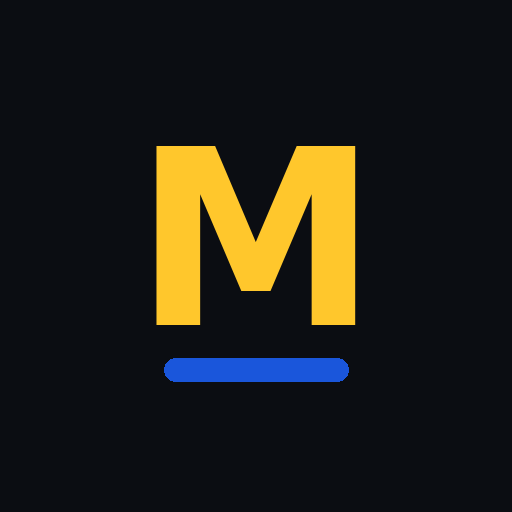
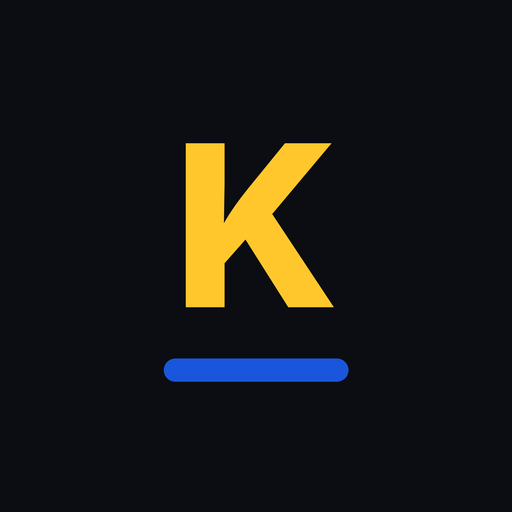
Add files via upload

Changed region(s): [[0.2812, 0.2812, 0.7188, 0.6562]]

diff --git a/index.html b/index.html
@@ -3,14 +3,14 @@
 <head>
     <meta charset="UTF-8">
     <meta name="viewport" content="width=device-width, initial-scale=1.0, maximum-scale=1.0, user-scalable=no, viewport-fit=cover, interactive-widget=resizes-visual">
-    <title>Matinyo POS</title>
+    <title>Keep POS</title>
 
     <!-- Install as an app (works once the files are hosted) -->
     <link rel="manifest" href="manifest.json">
     <meta name="mobile-web-app-capable" content="yes">
     <meta name="apple-mobile-web-app-capable" content="yes">
     <meta name="apple-mobile-web-app-status-bar-style" content="black-translucent">
-    <meta name="apple-mobile-web-app-title" content="Matinyo POS">
+    <meta name="apple-mobile-web-app-title" content="Keep POS">
     <meta name="theme-color" content="#0b0d12">
     <link rel="apple-touch-icon" href="icon-192.png">
     <link rel="icon" type="image/png" sizes="192x192" href="icon-192.png">
@@ -18,11 +18,11 @@
     <link href="https://fonts.googleapis.com/css2?family=Syne:wght@700;800&family=DM+Sans:wght@400;500;700;800&display=swap" rel="stylesheet">
     <style>
         :root {
-            --ink: #0b0d12;          /* Matinyo black */
+            --ink: #0b0d12;          /* Keep black */
             --ink2: #161b27;
-            --blue: #1a56db;         /* Matinyo blue */
+            --blue: #1a56db;         /* Keep blue */
             --blue-d: #1442b0;
-            --yellow: #ffc72c;       /* Matinyo yellow */
+            --yellow: #ffc72c;       /* Keep yellow */
             --light: #f2f4f8;
             --green: #16a34a;
             --pos: #00875a;
@@ -43,7 +43,7 @@
         .is-cashier .role-admin { display: none !important; }
 
         /* ── LOGIN ── */
-        #loginPage {
+        #loginPage, #setPinPage {
             position: fixed; inset: 0; z-index: 100; overflow-y: auto;
             background: radial-gradient(circle at 15% 0%, #16245a 0, var(--ink) 55%);
             display: flex; align-items: center; justify-content: center;
@@ -516,7 +516,7 @@
 <div id="pendingBadge">⏳ Waiting to sync</div>
 <div id="installBanner">
     <div style="font-size:1.8rem;">📲</div>
-    <div style="flex:1;"><strong>Install Matinyo POS</strong><span>Add to home screen — opens like an app</span></div>
+    <div style="flex:1;"><strong>Install Keep POS</strong><span>Add to home screen — opens like an app</span></div>
     <button class="install-btn" onclick="doInstall()">INSTALL</button>
     <button class="icon-btn" onclick="dismissInstall()">✕</button>
 </div>
@@ -545,7 +545,7 @@
 <!-- ══════════════ LOGIN ══════════════ -->
 <div id="loginPage">
     <div class="login-card">
-        <div class="login-logo">MATINYO<span>POS</span></div>
+        <div class="login-logo">KEEP<span>POS</span></div>
         <div class="login-bar"></div>
         <div class="login-sub">Authorized staff only</div>
 
@@ -569,6 +569,23 @@
     </div>
 </div>
 
+<!-- ══════════════ SET / RESET PIN (opened from the email link) ══════════════ -->
+<div id="setPinPage" style="display:none;z-index:110;">
+    <div class="login-card">
+        <div class="login-logo">KEEP<span>POS</span></div>
+        <div class="login-bar"></div>
+        <div style="font-size:1.05rem;font-weight:800;margin:6px 0 4px;">🔑 Set your PIN</div>
+        <div style="font-size:.82rem;color:var(--gray);margin-bottom:14px;line-height:1.5;" id="spWho">Checking your link…</div>
+        <div id="spFields" class="hidden"><div style="font-size:.72rem;color:var(--gray);margin-bottom:6px;">6 to 12 numbers</div>
+            <input type="password" id="spPin" class="login-field pass-input" placeholder="New PIN" inputmode="numeric" autocomplete="new-password">
+            <input type="password" id="spPin2" class="login-field pass-input" placeholder="PIN again" inputmode="numeric" autocomplete="new-password" onkeydown="if(event.key==='Enter') saveNewPin()">
+            <button class="primary-cta" id="spBtn" style="margin:4px 0 0;" onclick="saveNewPin()">SAVE PIN &amp; OPEN MY SHOP</button>
+        </div>
+        <div id="spError" style="font-size:.8rem;margin-top:10px;color:var(--red);"></div>
+        <button class="link-btn" onclick="leaveSetPin()">Go to sign in</button>
+    </div>
+</div>
+
 <!-- ══════════════ SUBSCRIPTION LOCK ══════════════ -->
 <div id="lockPage">
     <div class="login-card">
@@ -578,8 +595,8 @@
         <div style="font-size:.9rem;font-weight:700;margin:10px 0 4px;" id="lockTitle">Till locked</div>
         <div style="font-size:.8rem;color:var(--gray);" id="lockWhy"></div>
         <div class="pay-box" id="lockPay"></div>
-        <div style="font-size:.72rem;color:var(--gray);margin-bottom:14px;">✨ The till unlocks by itself as soon as Matinyo records your payment — no need to sign in again.</div>
-        <button class="primary-cta green" id="lockWa" onclick="lockWhatsApp()">📲 I've paid — tell Matinyo</button>
+        <div style="font-size:.72rem;color:var(--gray);margin-bottom:14px;">✨ The till unlocks by itself as soon as Keep records your payment — no need to sign in again.</div>
+        <button class="primary-cta green" id="lockWa" onclick="lockWhatsApp()">📲 I've paid — tell Keep</button>
         <button class="link-btn" onclick="logout('Signed out')">Sign out</button>
     </div>
 </div>
@@ -598,7 +615,7 @@
     <div class="tab-page role-admin" id="page-dashboard">
         <div class="header">
             <div class="header-top">
-                <div class="header-logo shop-name">MATINYO</div>
+                <div class="header-logo shop-name">KEEP</div>
                 <div class="header-meta">
                     <span class="who me-name"></span>
                     <button class="icon-btn" onclick="openTeam()" title="Team & settings">👥</button>
@@ -664,7 +681,7 @@
     <div class="tab-page" id="page-pos">
         <div class="pos-header">
             <div class="header-top">
-                <div class="pos-logo">POS · <span class="shop-name" style="color:#fff;">MATINYO</span></div>
+                <div class="pos-logo">POS · <span class="shop-name" style="color:#fff;">KEEP</span></div>
                 <div class="header-meta">
                     <span class="who me-name"></span>
                     <span class="hdr-date today-label"></span>
@@ -1243,7 +1260,7 @@ db.enablePersistence({ synchronizeTabs: true }).catch(e => console.warn('Offline
 const FV = firebase.firestore.FieldValue;
 const inc = n => FV.increment(n);
 // Plan usage list — the database checks it against the plan's limits.
-// Only written once Matinyo HQ has set it up for the shop.
+// Only written once Keep HQ has set it up for the shop.
 const usageRef = () => col('plan').doc('usage');
 function usageAdd(b, kind, id) { if (S.usage) b.update(usageRef(), { [`${kind}.${id}`]: true, updatedAt: now() }); }
 function usageDel(b, kind, id) { if (S.usage) b.update(usageRef(), { [`${kind}.${id}`]: FV.delete(), updatedAt: now() }); }
@@ -1500,16 +1517,50 @@ async function rejectLogin(msg) {
     loginError(msg);
 }
 
+// ── Set-PIN link from the email (Firebase sends ?mode=resetPassword&oobCode=…) ──
+S.resetCode = (() => { const q = new URLSearchParams(location.search); return q.get('mode') === 'resetPassword' ? q.get('oobCode') : null; })();
+if (new URLSearchParams(location.search).get('mode')) history.replaceState(null, '', location.pathname);
+async function openSetPin() {
+    $('loginPage').style.display = 'none'; $('setPinPage').style.display = 'flex';
+    try {
+        S.resetEmail = await auth.verifyPasswordResetCode(S.resetCode);
+        $('spWho').innerHTML = `Choose a PIN for <b>${esc(S.resetEmail)}</b>.<br>You will use it with this email or your phone number to open the till.`;
+        $('spFields').classList.remove('hidden'); setTimeout(() => $('spPin').focus(), 200);
+    } catch (e) {
+        $('spWho').innerHTML = '⚠ This link has expired or was already used.<br>On the sign-in page, type your email and tap <b>Forgot PIN?</b> to get a new one.';
+    }
+}
+async function saveNewPin() {
+    const pin = $('spPin').value.trim(); $('spError').textContent = '';
+    if (!/^\d{6,12}$/.test(pin)) return $('spError').textContent = 'The PIN must be 6 to 12 digits (numbers only).';
+    if (pin !== $('spPin2').value.trim()) return $('spError').textContent = 'The two PINs do not match.';
+    const btn = $('spBtn'); btn.disabled = true; btn.textContent = 'SAVING...';
+    try {
+        await auth.confirmPasswordReset(S.resetCode, pin);
+        S.resetCode = null; $('setPinPage').style.display = 'none';
+        if (auth.currentUser) await auth.signOut();
+        S.pendingLoginId = S.resetEmail;
+        loader(true, 'OPENING SHOP...');
+        await auth.signInWithEmailAndPassword(S.resetEmail, pin);
+        setTimeout(() => toast('✅ PIN saved — welcome!'), 800);
+    } catch (e) {
+        loader(false);
+        $('spError').textContent = (e.code || '').includes('expired') || (e.code || '').includes('invalid-action') ? 'This link has expired. Use Forgot PIN on the sign-in page.' : 'Could not save: ' + friendlyErr(e);
+    } finally { btn.disabled = false; btn.textContent = 'SAVE PIN & OPEN MY SHOP'; }
+}
+function leaveSetPin() { S.resetCode = null; $('setPinPage').style.display = 'none'; if (!auth.currentUser) showLogin(); else location.reload(); }
+
 auth.onAuthStateChanged(async user => {
     stopListeners();
+    if (S.resetCode) { loader(false); if ($('setPinPage').style.display !== 'flex') openSetPin(); return; }
     if (!user) { loader(false); showLogin(); return; }
     loader(true, 'OPENING SHOP...');
     try {
         const link = await db.collection('users').doc(user.uid).get();
-        if (!link.exists || !link.data().shop) return rejectLogin('This login is not linked to any shop. Contact Matinyo support.');
+        if (!link.exists || !link.data().shop) return rejectLogin('This login is not linked to any shop. Contact Keep support.');
         S.tenant = link.data().shop;
         const [tSnap, stSnap] = await Promise.all([tRef().get(), col('staff').doc(user.uid).get()]);
-        if (!tSnap.exists) return rejectLogin('Shop not found. Contact Matinyo support.');
+        if (!tSnap.exists) return rejectLogin('Shop not found. Contact Keep support.');
         if (!stSnap.exists) return rejectLogin('Your staff account is not set up. Ask the shop owner.');
         const st = stSnap.data();
         if (st.replacedBy) return rejectLogin('Your PIN was reset. Sign in with your new PIN.');
@@ -1517,6 +1568,7 @@ auth.onAuthStateChanged(async user => {
         S.tenantInfo = tSnap.data();
         S.me = { uid: user.uid, email: user.email, loginId: st.loginId || '', name: st.name || 'Staff', role: st.role === 'admin' ? 'admin' : 'cashier' };
         rememberUser(S.pendingLoginId || st.loginId || user.email, S.me.name, S.tenantInfo.name || S.tenant);
+        if (!isSellerEmail(user.email || '') && S.tenantInfo.name && user.displayName !== S.tenantInfo.name && user.updateProfile) user.updateProfile({ displayName: S.tenantInfo.name }).catch(() => {});
         S.pendingLoginId = null;
         S.platform = await db.collection('platform').doc('config').get().then(d => d.data() || {}).catch(() => ({}));
         if (subState(S.tenantInfo).locked) showLocked(); else enterApp();
@@ -1684,7 +1736,7 @@ function stopListeners() {
 
 function renderAll() { renderPOS(); renderInventory(); renderPosStrip(); if (isAdmin()) renderDashboard(); }
 function renderShopName() {
-    const n = (S.tenantInfo.name || S.tenant || 'MATINYO').toUpperCase();
+    const n = (S.tenantInfo.name || S.tenant || 'KEEP').toUpperCase();
     document.querySelectorAll('.shop-name').forEach(e => e.textContent = n);
     document.querySelectorAll('.today-label').forEach(e => e.textContent = shortDay(dayStr()));
 }
@@ -2222,7 +2274,7 @@ function saveItem() {
     const prev = id ? productById(id) : null;
     if (serial && stock !== (prev ? Number(prev.stock) || 0 : 0)) return toast(prev ? '⚠ For serial items, add stock with 📥 Restock so each serial is scanned in.' : '⚠ Save serial items with stock 0, then use 📥 Restock to scan each serial in.', 'err');
     const maxP = Number((S.tenantInfo.limits || {}).maxProducts) || 0;
-    if (!id && maxP && usedItems() >= maxP) return toast(`⚠ Your plan allows ${maxP} items. Ask Matinyo to upgrade your plan.`, 'err');
+    if (!id && maxP && usedItems() >= maxP) return toast(`⚠ Your plan allows ${maxP} items. Ask Keep to upgrade your plan.`, 'err');
     const ref = id ? col('products').doc(id) : col('products').doc();
     const before = id ? productById(id) : null;
     const b = db.batch();
@@ -3306,7 +3358,7 @@ async function submitShift() {
     commit(b, '✅ Cash-up sent to the owner', { label: `Cash-up: counted ${n0(countedCash)}` });
     closeModals();
     const wa = String((S.tenantInfo.settings || {}).whatsapp || '').replace(/\D/g, '');
-    const text = `🧾 *Cash-up — ${(S.tenantInfo.name || S.tenant)}*\n👤 ${S.me.name} · ${prettyDay(day)} ${new Date().toLocaleTimeString('en-GB', { hour: '2-digit', minute: '2-digit' })}\n\n💵 Cash counted: ${n0(countedCash)}${countedMobile !== null ? `\n📱 Lipa kwa Simu: ${n0(countedMobile)}` : ''}\n🛒 My sales this shift: ${salesCount}${paidOuts.length ? '\n\n💸 Paid out of the drawer:\n' + paidOuts.map(p => `• ${p.note} — ${n0(p.amount)}`).join('\n') : ''}${$('shNote').value.trim() ? '\n\n📝 ' + $('shNote').value.trim() : ''}\n\nPlease review it in Matinyo POS.`;
+    const text = `🧾 *Cash-up — ${(S.tenantInfo.name || S.tenant)}*\n👤 ${S.me.name} · ${prettyDay(day)} ${new Date().toLocaleTimeString('en-GB', { hour: '2-digit', minute: '2-digit' })}\n\n💵 Cash counted: ${n0(countedCash)}${countedMobile !== null ? `\n📱 Lipa kwa Simu: ${n0(countedMobile)}` : ''}\n🛒 My sales this shift: ${salesCount}${paidOuts.length ? '\n\n💸 Paid out of the drawer:\n' + paidOuts.map(p => `• ${p.note} — ${n0(p.amount)}`).join('\n') : ''}${$('shNote').value.trim() ? '\n\n📝 ' + $('shNote').value.trim() : ''}\n\nPlease review it in Keep POS.`;
     if (wa && await showConfirm('Also send the cash-up to the owner on WhatsApp?', '📲 WhatsApp', 'var(--pos)')) window.open(`https://wa.me/${wa}?text=${encodeURIComponent(text)}`, '_blank');
     if (await showConfirm('Your shift is done. Sign out now so the next person can sign in?', 'Sign out', 'var(--blue)')) logout('👋 Shift ended');
 }
@@ -3853,7 +3905,7 @@ function subState(t) {
 }
 function payInstructions() {
     const P = S.platform || {}, t = S.tenantInfo;
-    return `Amount: ${fmt(t.monthlyFee || 0)} per month\n${P.payHow || 'Contact Matinyo for payment details.'}\nReference: ${S.tenant}`;
+    return `Amount: ${fmt(t.monthlyFee || 0)} per month\n${P.payHow || 'Contact Keep for payment details.'}\nReference: ${S.tenant}`;
 }
 function stopLockWatch() { if (S.lockWatch) { S.lockWatch(); S.lockWatch = null; } }
 function showLocked() {
@@ -3863,7 +3915,7 @@ function showLocked() {
     syncCartDock();
     renderLock();
     $('lockPage').style.display = 'flex';
-    // Watch the shop record: the moment Matinyo records a payment, the till opens again.
+    // Watch the shop record: the moment Keep records a payment, the till opens again.
     S.lockWatch = tRef().onSnapshot(s => {
         S.tenantInfo = s.data() || {};
         if (!subState(S.tenantInfo).locked) { toast('✅ Subscription active — welcome back!'); enterApp(); }
@@ -3873,19 +3925,19 @@ function showLocked() {
 function renderLock() {
     const t = S.tenantInfo, st = subState(t), P = S.platform || {};
     $('lockShop').textContent = (t.name || S.tenant || '').toUpperCase();
-    $('lockTitle').textContent = st.reason === 'expired' ? 'Subscription ended' : st.reason === 'suspended' ? 'Shop paused by Matinyo' : 'Shop closed';
+    $('lockTitle').textContent = st.reason === 'expired' ? 'Subscription ended' : st.reason === 'suspended' ? 'Shop paused by Keep' : 'Shop closed';
     $('lockWhy').textContent = st.reason === 'expired'
-        ? `The Matinyo POS subscription ended on ${tsDay(t.paidUntil)}. Your sales and stock are safe.${isAdmin() ? '' : ' Please tell the shop owner.'}`
-        : `Please contact Matinyo to reopen this shop.${isAdmin() ? '' : ' Tell the shop owner.'}`;
-    $('lockPay').textContent = st.reason === 'expired' ? payInstructions() : (P.supportPhone ? 'Matinyo support: ' + prettyPhone(P.supportPhone) : 'Contact Matinyo support.');
+        ? `The Keep POS subscription ended on ${tsDay(t.paidUntil)}. Your sales and stock are safe.${isAdmin() ? '' : ' Please tell the shop owner.'}`
+        : `Please contact Keep to reopen this shop.${isAdmin() ? '' : ' Tell the shop owner.'}`;
+    $('lockPay').textContent = st.reason === 'expired' ? payInstructions() : (P.supportPhone ? 'Keep support: ' + prettyPhone(P.supportPhone) : 'Contact Keep support.');
     $('lockWa').classList.toggle('hidden', !P.supportPhone);
-    $('lockWa').textContent = st.reason === 'expired' ? "📲 I've paid — tell Matinyo" : '📲 Contact Matinyo';
+    $('lockWa').textContent = st.reason === 'expired' ? "📲 I've paid — tell Keep" : '📲 Contact Keep';
 }
 function lockWhatsApp() {
     const P = S.platform || {}, t = S.tenantInfo;
     const text = subState(t).reason === 'expired'
-        ? `Hello Matinyo, I have paid the subscription for *${t.name}* (shop code ${S.tenant}).\nAmount: \nTransaction ID: `
-        : `Hello Matinyo, I need help with shop *${t.name}* (shop code ${S.tenant}).`;
+        ? `Hello Keep, I have paid the subscription for *${t.name}* (shop code ${S.tenant}).\nAmount: \nTransaction ID: `
+        : `Hello Keep, I need help with shop *${t.name}* (shop code ${S.tenant}).`;
     window.open(`https://wa.me/${P.supportPhone}?text=${encodeURIComponent(text)}`, '_blank');
 }
 
@@ -3940,7 +3992,7 @@ function openSub() {
         </div>
         <span class="section-label">How to pay</span>
         <div class="pay-box" style="margin-top:0;">${esc(payInstructions())}</div>
-        ${(S.platform || {}).supportPhone ? `<button class="btn-sec wide" onclick="lockWhatsApp()">📲 Tell Matinyo you've paid</button>` : ''}
+        ${(S.platform || {}).supportPhone ? `<button class="btn-sec wide" onclick="lockWhatsApp()">📲 Tell Keep you've paid</button>` : ''}
         <span class="section-label" style="margin-top:10px;">Payments & receipts</span>
         <div id="subPays"><div style="font-size:.75rem;color:var(--gray);padding:8px 0;">Loading…</div></div>`;
     S.sheetListeners.push(col('payments').onSnapshot(s => {
@@ -3958,7 +4010,7 @@ function tillReceipt(pid) {
     if (!window.jspdf) return toast('PDF tool did not load — check your connection.', 'err');
     const P = S.platform || {}, { jsPDF } = window.jspdf, doc = new jsPDF({ unit: 'mm', format: 'a5' }), W = 148;
     doc.setFillColor(11, 13, 18); doc.rect(0, 0, W, 30, 'F');
-    doc.setTextColor(255, 199, 44); doc.setFont('helvetica', 'bold'); doc.setFontSize(18); doc.text('MATINYO', 12, 15);
+    doc.setTextColor(255, 199, 44); doc.setFont('helvetica', 'bold'); doc.setFontSize(18); doc.text('KEEP', 12, 15);
     doc.setTextColor(96, 165, 250); doc.setFontSize(9); doc.text('POS SUBSCRIPTION', 12, 22);
     doc.setTextColor(255, 255, 255); doc.setFontSize(11); doc.text('RECEIPT', W - 12, 15, { align: 'right' });
     doc.setFontSize(9); doc.setFont('helvetica', 'normal'); doc.text(p.receiptNo || '', W - 12, 22, { align: 'right' });
@@ -4082,7 +4134,7 @@ async function makeSellerLogin(pin) {
 
 async function sendLoginDetails(name, phone, pin, isNew) {
     const link = location.href.split('#')[0].split('?')[0];
-    const text = `Habari ${name.split(' ')[0]}! ${isNew ? 'Your Matinyo POS account for' : 'Your new PIN for'} *${S.tenantInfo.name || S.tenant}* is ready.\n\n📱 Phone: ${prettyPhone(phone)}\n🔑 PIN: ${pin}\n\nOpen: ${link}`;
+    const text = `Habari ${name.split(' ')[0]}! ${isNew ? 'Your Keep POS account for' : 'Your new PIN for'} *${S.tenantInfo.name || S.tenant}* is ready.\n\n📱 Phone: ${prettyPhone(phone)}\n🔑 PIN: ${pin}\n\nOpen: ${link}`;
     const ok = await showConfirm(`<b>${esc(name)}</b> can sign in with<br><br>📱 <b>${esc(prettyPhone(phone))}</b><br>🔑 PIN <b>${esc(pin)}</b><br><br>Send these details to them on WhatsApp?`, '📲 WhatsApp', 'var(--pos)');
     if (ok) window.open(`https://wa.me/${phone}?text=${encodeURIComponent(text)}`, '_blank');
 }
@@ -4094,7 +4146,7 @@ async function addStaff() {
     if (!/^\d{6,12}$/.test(pin)) return toast('⚠ PIN must be 6 to 12 digits.', 'err');
     if (!navigator.onLine) return toast('⚠ Adding a seller needs internet.', 'err');
     const maxS = Number((S.tenantInfo.limits || {}).maxStaff) || 0;
-    if (maxS && usedStaff() >= maxS) return toast(`⚠ Your plan allows ${maxS} staff logins. Switch someone off or ask Matinyo to upgrade.`, 'err');
+    if (maxS && usedStaff() >= maxS) return toast(`⚠ Your plan allows ${maxS} staff logins. Switch someone off or ask Keep to upgrade.`, 'err');
     const btn = $('stBtn'); btn.disabled = true; btn.textContent = 'ADDING...';
     try {
         const taken = await db.collection('logins').doc(phone).get({ source: 'server' });
@@ -4147,7 +4199,7 @@ function toggleStaff(uid) {
     const on = p.active === false;
     if (uid === S.me.uid) return toast('You cannot switch yourself off.', 'err');
     const maxS = Number((S.tenantInfo.limits || {}).maxStaff) || 0;
-    if (on && maxS && usedStaff() >= maxS) return toast(`⚠ Your plan allows ${maxS} staff logins. Switch someone else off first, or ask Matinyo to upgrade.`, 'err');
+    if (on && maxS && usedStaff() >= maxS) return toast(`⚠ Your plan allows ${maxS} staff logins. Switch someone else off first, or ask Keep to upgrade.`, 'err');
     const b = db.batch();
     b.update(col('staff').doc(uid), { active: on });
     if (on) usageAdd(b, 'staff', uid); else usageDel(b, 'staff', uid);

diff --git a/sw.js b/sw.js
@@ -1,6 +1,6 @@
 // Matinyo POS — keeps the app opening when the internet is down.
 // Sales themselves are stored offline by Firebase; this file only caches the app's own files.
-const CACHE = 'matinyo-pos-v12';
+const CACHE = 'matinyo-pos-v14';
 const SHELL = ['./', './index.html', './manifest.json', './icon-192.png', './icon-512.png'];
 
 self.addEventListener('install', e => {
